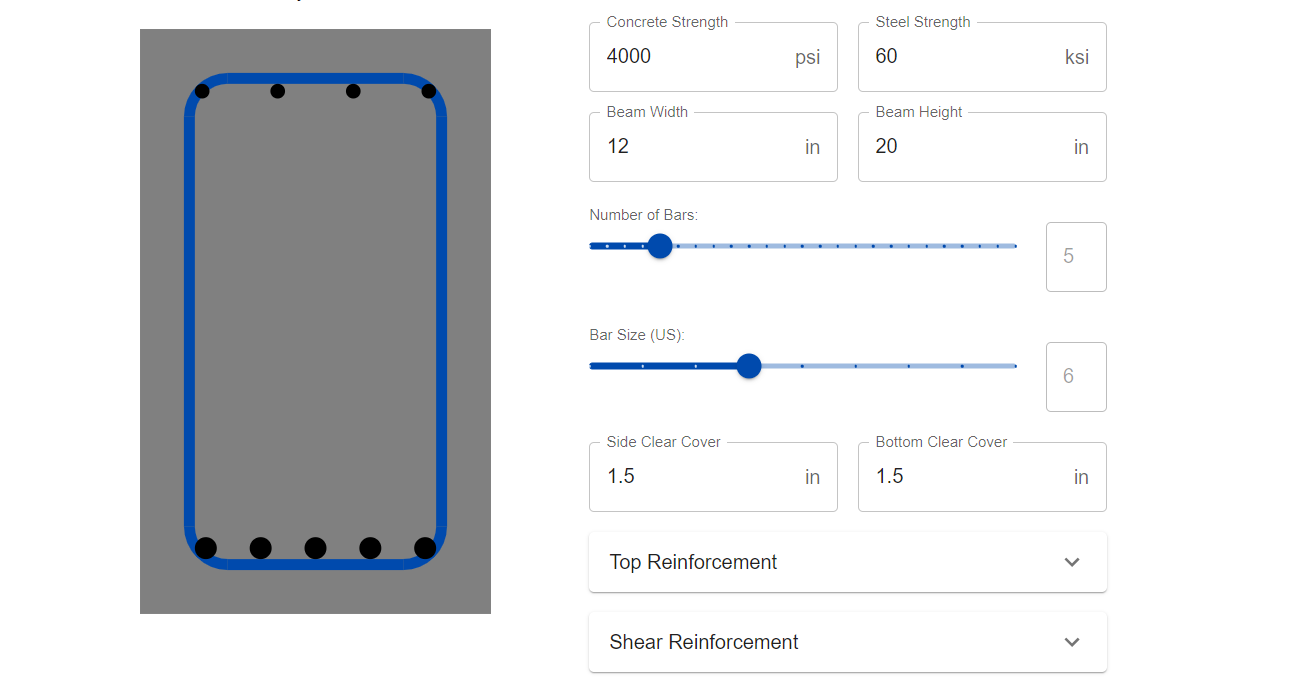
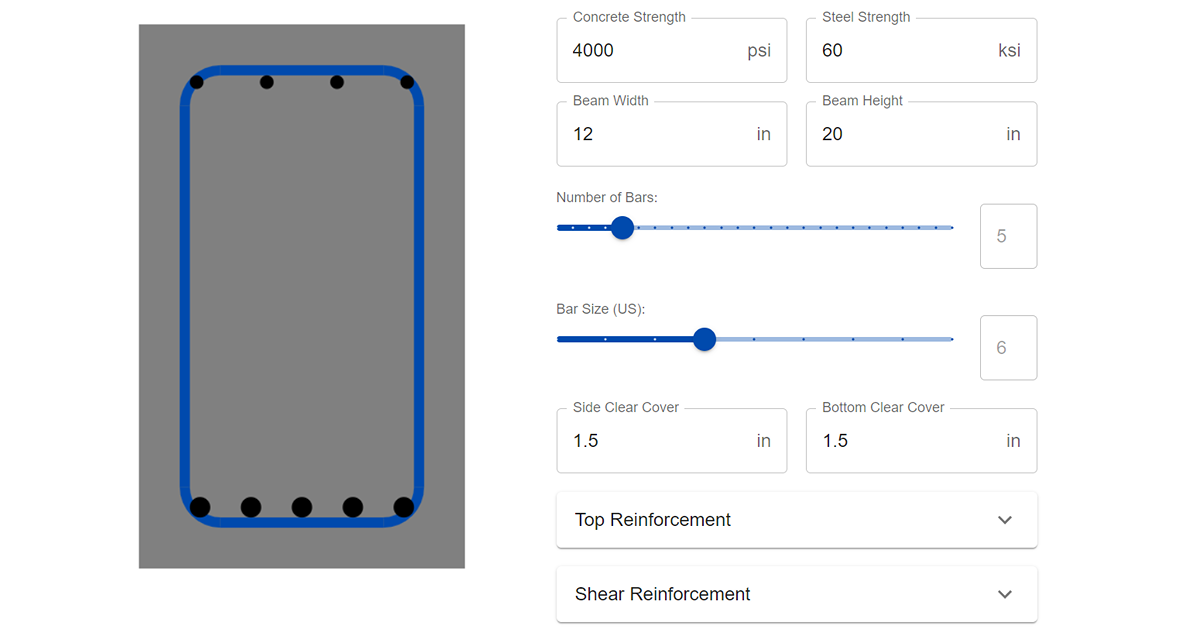
remove escapes for # char

diff --git a/src/components/CalculationReport/CalcReport.tsx b/src/components/CalculationReport/CalcReport.tsx
@@ -1,30 +1,30 @@
 import { Box, styled } from "@mui/material";
+import { useEffect } from "react";
+import { updateMathJax } from "../..";
+import AssumptionReport from "./CalcReportComponents/AssumptionReport";
+import BodyHeaderReport from "./CalcReportComponents/BodyHeaderReport";
+import BodyTextReport from "./CalcReportComponents/BodyTextReport";
+import CalcTitleReport from "./CalcReportComponents/CalcTitleReport";
+import CalcVariableReport from "./CalcReportComponents/CalcVariableReport";
+import CheckVariableReport from "./CalcReportComponents/CheckVariableReport";
+import CheckVariablesTextReport from "./CalcReportComponents/CheckVariablesTextReport";
+import DeclareVariableReport from "./CalcReportComponents/DeclareVariableReport";
+import InputTableReport from "./CalcReportComponents/InputTableReport";
+import { CalcTypography, getCalcKey } from "./CalcReportComponents/reportUtilities";
+import ResultTableReport from "./CalcReportComponents/ResultTableReport";
 import {
   Assumption,
   BodyHeading,
-  TextBlock,
   CalcTypeToParse,
   CalculationTitle,
   CalcVariable,
   Comparison,
   ComparisonForced,
+  InputTable,
   InputVariable,
   ResultTable,
-  InputTable,
+  TextBlock,
 } from "./CalculationRunTypes";
-import BodyTextReport from "./CalcReportComponents/BodyTextReport";
-import CalcTitleReport from "./CalcReportComponents/CalcTitleReport";
-import AssumptionReport from "./CalcReportComponents/AssumptionReport";
-import DeclareVariableReport from "./CalcReportComponents/DeclareVariableReport";
-import BodyHeaderReport from "./CalcReportComponents/BodyHeaderReport";
-import CalcVariableReport from "./CalcReportComponents/CalcVariableReport";
-import CheckVariableReport from "./CalcReportComponents/CheckVariableReport";
-import CheckVariablesTextReport from "./CalcReportComponents/CheckVariablesTextReport";
-import { CalcTypography, getCalcKey } from "./CalcReportComponents/reportUtilities";
-import { useEffect } from "react";
-import { updateMathJax } from "../..";
-import ResultTableReport from "./CalcReportComponents/ResultTableReport";
-import InputTableReport from "./CalcReportComponents/InputTableReport";
 
 const headLevelToFontSize = {
   1: "2rem",
@@ -140,8 +140,8 @@ export default function CalcReport({ runResults, beamSection }: Props) {
         })}
       <CalcTypography marginTop="3rem" textAlign="right" className="no-break">
         Powered by{" "}
-        <StyledLink href="https://encompapp.com" target="_blank" rel="noopener noreferrer">
-          encompapp.com
+        <StyledLink href="https://efficalc.com" target="_blank" rel="noopener noreferrer">
+          efficalc.com
         </StyledLink>
       </CalcTypography>
     </Box>

diff --git a/src/components/BeamShapeForm/index.tsx b/src/components/BeamShapeForm/index.tsx
@@ -1,24 +1,23 @@
-import React from "react";
-import { useState, useEffect, useRef, useCallback } from "react";
-import "./style.css";
-import NumInput from "../NumInput";
-import NumSlider from "../NumSlider";
-import BeamSection from "../BeamSection";
-import { FetchResults } from "../FetchResults";
-import { bar_area, bar_diameter } from "../utilities";
-import BarsWithProps from "../Interfaces/BarsWithProps";
+import ExpandMoreIcon from "@mui/icons-material/ExpandMore";
 import {
-  Grid,
   Accordion,
-  AccordionSummary,
   AccordionDetails,
-  Typography,
+  AccordionSummary,
   Button,
   CircularProgress,
+  Grid,
+  Typography,
 } from "@mui/material";
-import ExpandMoreIcon from "@mui/icons-material/ExpandMore";
-import ConcreteProps, { BarSizeT } from "../Interfaces/ConcreteProps";
+import React, { useCallback, useEffect, useRef, useState } from "react";
+import BeamSection from "../BeamSection";
+import { FetchResults } from "../FetchResults";
 import APIResults from "../Interfaces/APIResults";
+import BarsWithProps from "../Interfaces/BarsWithProps";
+import ConcreteProps, { BarSizeT } from "../Interfaces/ConcreteProps";
+import NumInput from "../NumInput";
+import NumSlider from "../NumSlider";
+import { bar_area, bar_diameter } from "../utilities";
+import "./style.css";
 
 // expected properties to draw beam section
 interface FormProps {
@@ -126,7 +125,7 @@ export default function BeamShapeForm({ setShowResult, setGetBeam, setGetBeamSec
       h: h,
       nShearBars: nlegs,
       spacingShearBars: legspacing,
-      sizeShearBars: `\\#${legsize}` as BarSizeT,
+      sizeShearBars: `#${legsize}` as BarSizeT,
     };
 
     FetchResults(barProps, concrete_props).then((result) => {

diff --git a/src/components/BeamResults/index.tsx b/src/components/BeamResults/index.tsx
@@ -1,19 +1,18 @@
-import React from "react";
 import {
+  Box,
+  Button,
   Collapse,
   Container,
   Grid,
-  Typography,
-  Button,
-  Box,
-  useTheme,
-  Theme,
   Stack,
-  Paper,
+  Theme,
+  Typography,
+  useTheme,
 } from "@mui/material";
+import CalcReport from "../CalculationReport/CalcReport";
+import { wrapMathString } from "../CalculationReport/CalcReportComponents/reportUtilities";
 import DataTable from "../DataTable";
 import APIResults from "../Interfaces/APIResults";
-import CalcReport from "../CalculationReport/CalcReport";
 
 const displayResult = (
   description: string,
@@ -39,7 +38,7 @@ const displayResult = (
       {description}
     </Typography>
     <Typography key={`calc-result-${varName}`} align="center">
-      {`\\( ${varName} = ${result} \ \\mathrm{${unit}} \\)`}
+      {wrapMathString(`${varName} = ${result} \ \\mathrm{${unit}}`)}
     </Typography>
   </Box>
 );
@@ -64,7 +63,7 @@ export default function BeamResults({ showresult = false, getbeam, getBeamSectio
       document
         .querySelectorAll(".not-calc-report")
         .forEach((element) => element?.classList.remove("no-print"));
-    }, 500);
+    }, 1000);
   };
 
   const showCalculationsDiv = () => {

diff --git a/src/components/CalculationReport/CalcReportComponents/reportUtilities.tsx b/src/components/CalculationReport/CalcReportComponents/reportUtilities.tsx
@@ -18,8 +18,9 @@ export const CalcTypography = styled(Typography)(() => ({
   fontFamily: "serif",
 }));
 
-export const wrapMathString = (tex: string) => `\\( ${tex} \\)`;
-export const wrapMathEquationString = (tex: string) => `\\[ ${tex} \\]`;
+const escapeTexCharacters = (tex: string) => tex.replace("#", "\\#");
+export const wrapMathString = (tex: string) => `\\( ${escapeTexCharacters(tex)} \\)`;
+export const wrapMathEquationString = (tex: string) => `\\[ ${escapeTexCharacters(tex)} \\]`;
 export const wrapAlignment = (tex: string) => `${BEGIN_ALIGN} ${tex} ${END_ALIGN}`;
 
 export const addReference = (mainContent: JSX.Element, reference?: string) => (

diff --git a/src/components/FetchResults/index.ts b/src/components/FetchResults/index.ts
@@ -1,12 +1,11 @@
+import APIResults, { APIResultsUnparced } from "../Interfaces/APIResults";
 import BarsWithProps from "../Interfaces/BarsWithProps";
 import ConcreteProps from "../Interfaces/ConcreteProps";
-import APIResults from "../Interfaces/APIResults";
-import { APIResultsUnparced } from "../Interfaces/APIResults";
 
 // https://api.encompapp.com
 // http://127.0.0.1:8000
-// const BASE_URL = "https://api.encompapp.com";
-const BASE_URL = "http://127.0.0.1:8000";
+const BASE_URL = "https://api.encompapp.com";
+// const BASE_URL = "http://127.0.0.1:8000";
 
 // https://www.smashingmagazine.com/2020/07/custom-react-hook-fetch-cache-data/
 

diff --git a/public/index.html b/public/index.html
@@ -49,7 +49,7 @@
         code references for easy and quick design review.
       </p>
       <p>
-        Don't forget to try out our powerful calculation-building application,
+        Don't forget to try out our innovative calculation-building application,
         <a href="https://efficalc.encompapp.com/" target="_blank" rel="noopener noreferrer"
           ><b>Efficalc</b></a
         >, where you can build your own powerful design tools.

diff --git a/src/components/Interfaces/ConcreteProps.ts b/src/components/Interfaces/ConcreteProps.ts
@@ -10,14 +10,14 @@ export default interface ConcreteProps {
 }
 
 export type BarSizeT =
-  | "\\#3"
-  | "\\#4"
-  | "\\#5"
-  | "\\#6"
-  | "\\#7"
-  | "\\#8"
-  | "\\#9"
-  | "\\#10"
-  | "\\#11"
-  | "\\#14"
-  | "\\#18";
+  | "#3"
+  | "#4"
+  | "#5"
+  | "#6"
+  | "#7"
+  | "#8"
+  | "#9"
+  | "#10"
+  | "#11"
+  | "#14"
+  | "#18";
